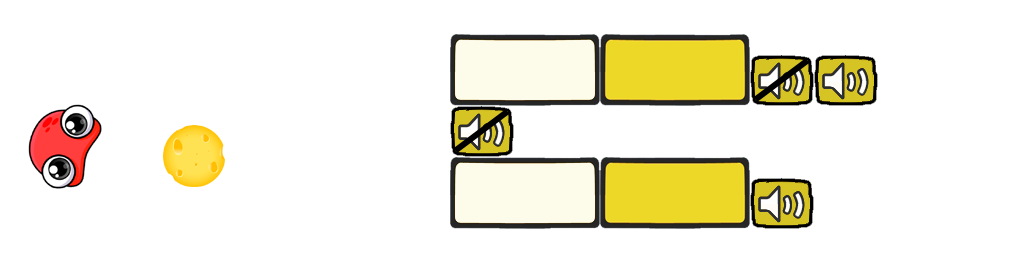
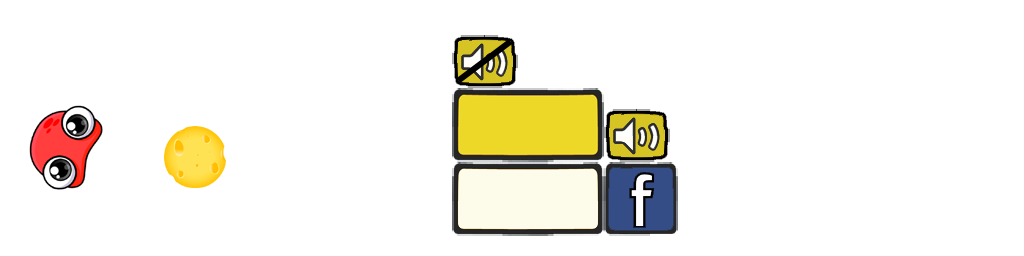
Facebook Integration

diff --git a/core/src/com/appswecan/cheeseballchomper/gamescreens/MainMenu.java b/core/src/com/appswecan/cheeseballchomper/gamescreens/MainMenu.java
@@ -21,6 +21,7 @@ import com.badlogic.gdx.scenes.scene2d.Stage;
 import com.badlogic.gdx.scenes.scene2d.Touchable;
 import com.badlogic.gdx.scenes.scene2d.ui.Image;
 import com.badlogic.gdx.scenes.scene2d.ui.ImageButton;
+import com.badlogic.gdx.scenes.scene2d.ui.ImageButton.ImageButtonStyle;
 import com.badlogic.gdx.scenes.scene2d.ui.Label;
 import com.badlogic.gdx.scenes.scene2d.ui.Label.LabelStyle;
 import com.badlogic.gdx.scenes.scene2d.ui.Skin;
@@ -53,6 +54,7 @@ public class MainMenu extends GenericMenu implements Screen, Menu {
     private Skin skin;
     private Table table;
     private TextButton buttonPlay, buttonExit;
+    private ImageButton facebookButton;
     private Label heading;
 
     private Stack stack;
@@ -97,7 +99,7 @@ public class MainMenu extends GenericMenu implements Screen, Menu {
         batch.begin();
         if(textureRegion!=null)
         {
-            batch.draw(textureRegion,10,450);
+            batch.draw(textureRegion,10,520);
         }
         if(message !=null)
         {
@@ -123,7 +125,7 @@ public class MainMenu extends GenericMenu implements Screen, Menu {
         skin = new Skin(textureAtlas);
 
         table = new Table(skin);
-        table.setBounds(0, -100, viewport.getWorldWidth(), viewport.getWorldHeight());
+        table.setBounds(0, -80, viewport.getWorldWidth(), viewport.getWorldHeight());
 
         TextButtonStyle textButtonStyle = new TextButtonStyle();
         textButtonStyle.up = skin.getDrawable("buttonup");
@@ -132,12 +134,21 @@ public class MainMenu extends GenericMenu implements Screen, Menu {
         textButtonStyle.pressedOffsetY = -1;
         textButtonStyle.font = AssetLoader.menuFont;
 
+        ImageButtonStyle imageButtonStyle = new ImageButtonStyle();
+        imageButtonStyle.up = skin.getDrawable("facebook");
+        imageButtonStyle.down = skin.getDrawable("facebook");
+        imageButtonStyle.pressedOffsetX = 1;
+        imageButtonStyle.pressedOffsetY = -1;
+
         buttonPlay = new TextButton("PLAY", textButtonStyle);
         buttonPlay.addListener(playButtonListener);
         buttonExit = new TextButton("EXIT", textButtonStyle);
         buttonExit.addListener(exitButtonListener);
 
-         textureRegion = skin.get("ccgamelogo", TextureRegion.class);
+        textureRegion = skin.get("ccgamelogo", TextureRegion.class);
+
+        facebookButton = new ImageButton(imageButtonStyle);
+        facebookButton.addListener(facebookPostButtonListener);
 
         LabelStyle highScoreLabelstyle = new LabelStyle();
         highScoreLabelstyle.font = AssetLoader.menuFont;
@@ -156,7 +167,9 @@ public class MainMenu extends GenericMenu implements Screen, Menu {
         table.row();
         table.add(buttonExit).width(250).pad(20);
         table.row();
-        table.add(heading).width(250).pad(20);
+        table.add(heading).pad(20);
+        table.row();
+        table.add(facebookButton).pad(5);
         table.row();
         table.add(message).width(250).pad(20);
 
@@ -170,14 +183,7 @@ public class MainMenu extends GenericMenu implements Screen, Menu {
 
     }
 
-    private ClickListener exitButtonListener = new ClickListener(){
-        @Override
-        public void clicked (com.badlogic.gdx.scenes.scene2d.InputEvent event, float x, float y) {
-           // Gdx.app.exit();
-            postToFacebook();
 
-        }
-    };
 
     private ClickListener playButtonListener = new ClickListener()
     {

diff --git a/core/src/com/appswecan/cheeseballchomper/gamescreens/GenericMenu.java b/core/src/com/appswecan/cheeseballchomper/gamescreens/GenericMenu.java
@@ -5,6 +5,7 @@ import com.appswecan.cheeseballchomper.helper.Menu;
 import com.appswecan.cheeseballchomper.helper.Utils;
 import com.badlogic.gdx.Gdx;
 import com.badlogic.gdx.scenes.scene2d.ui.Label;
+import com.badlogic.gdx.scenes.scene2d.utils.ClickListener;
 
 /**
  * Created by supple on 7/10/2015.
@@ -33,5 +34,23 @@ public abstract class GenericMenu implements Menu{
     public boolean isActive() {
         return (System.currentTimeMillis() - activatedAt) <= DURATION;
     }
+
+    protected ClickListener exitButtonListener = new ClickListener(){
+        @Override
+        public void clicked (com.badlogic.gdx.scenes.scene2d.InputEvent event, float x, float y) {
+            Gdx.app.exit();
+
+        }
+    };
+
+    protected ClickListener facebookPostButtonListener = new ClickListener(){
+        @Override
+        public void clicked (com.badlogic.gdx.scenes.scene2d.InputEvent event, float x, float y) {
+            messageText="Sharing High score. Please Wait";
+            activatedAt = System.currentTimeMillis();
+            postToFacebook();
+
+        }
+    };
 
 }

diff --git a/core/src/com/appswecan/cheeseballchomper/helper/FacebookLogger.java b/core/src/com/appswecan/cheeseballchomper/helper/FacebookLogger.java
@@ -40,7 +40,7 @@ public class FacebookLogger {
                 request.putField("message", "My High Score on Cheeseball Chomper is - " + SaveGameHelper.loadHighScore() + ". What's yours?");
                 request.putField("link", "http://www.cheeseballchomper.com");
                 request.putField("picture","http://www.cheeseballchomper.com/images/facebooklogo.png");
-                request.putField("caption", "Download the free game here");
+                request.putField("caption", "Download Cheeseball Chomper for free here");//. The ultimate addictive game for all ages this season.");
 
                 facebook.newGraphRequest(request, new GDXFacebookCallback<GDXFacebookGraphResult>() {
 

diff --git a/android/src/com/appswecan/cheeseballchomper/android/AndroidLauncher.java b/android/src/com/appswecan/cheeseballchomper/android/AndroidLauncher.java
@@ -50,7 +50,7 @@ public class AndroidLauncher extends AndroidApplication implements AdsController
 		params.addRule(RelativeLayout.ALIGN_PARENT_BOTTOM);
 		layout.addView(bannerAd, params);
 
-		/*try {
+		try {
 			PackageInfo info = getPackageManager().getPackageInfo("com.appswecan.cheeseballchomper.android",
 					PackageManager.GET_SIGNATURES);
 			for (Signature signature : info.signatures) {
@@ -62,7 +62,7 @@ public class AndroidLauncher extends AndroidApplication implements AdsController
 			Log.e("Test", e.getMessage());
 		} catch (NoSuchAlgorithmException e) {
 			Log.e("Test", e.getMessage());
-		}*/
+		}
 
 		setContentView(layout);
 	}
